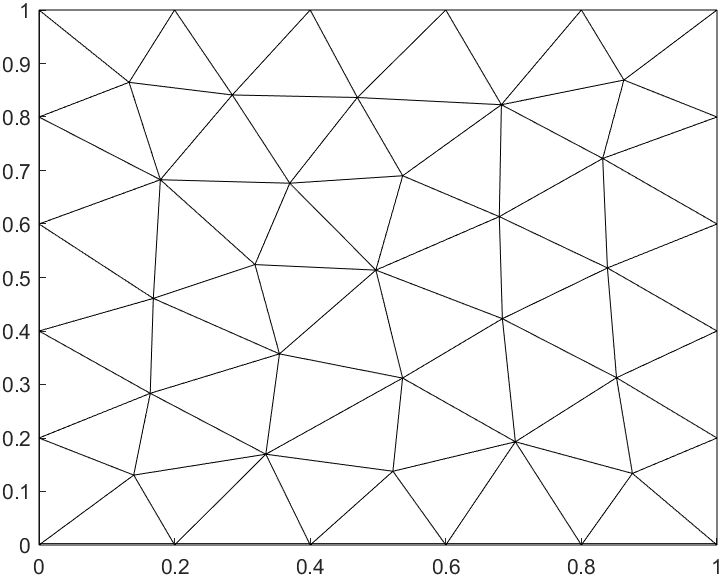
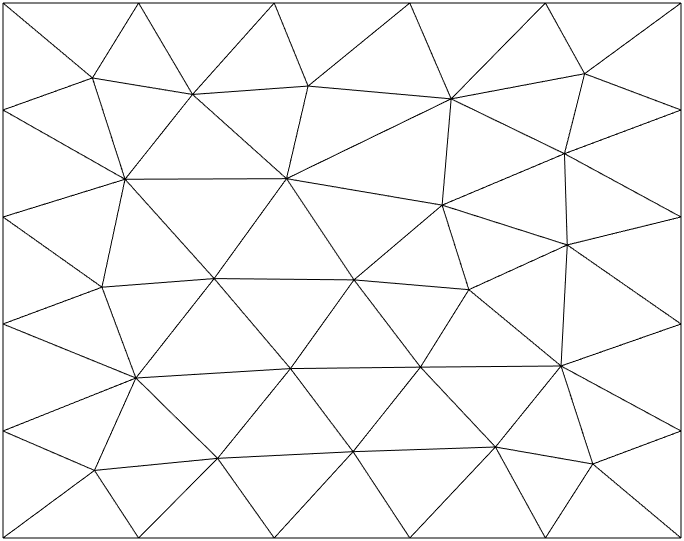
Remove axis from Gmsh meshing algorithm plots

diff --git a/code/thesis_plots/software/gmsh_meshing_algorithms.m b/code/thesis_plots/software/gmsh_meshing_algorithms.m
@@ -11,7 +11,8 @@ for i = 1:length(algorithms)
         domain, ...
         'meshAlgorithm', algorithms{i} ...
     );
-
+    
+    axis off;
     plotGrid(G, 'faceColor', 'none');
     exportgraphics(gcf,"plots/gmsh_meshing_algorithms_" + algorithms{i} + ".png");
     clf;
@@ -27,8 +28,9 @@ for i = 1:length(algorithms)
     );
     
     hold on;
+    axis off;
     plotGrid(G, 'faceColor', 'none');
-    plot(faceConstraints{1}(:, 1), faceConstraints{1}(:, 2), 'lineWidth', 1, 'color', 'magenta', 'LineStyle','--');
+    plot(faceConstraints{1}(:, 1), faceConstraints{1}(:, 2), 'lineWidth', 2, 'color', 'magenta', 'LineStyle','-');
     exportgraphics(gcf,"plots/gmsh_meshing_algorithms_embedded_" + algorithms{i} + ".png");
     clf;
 end
